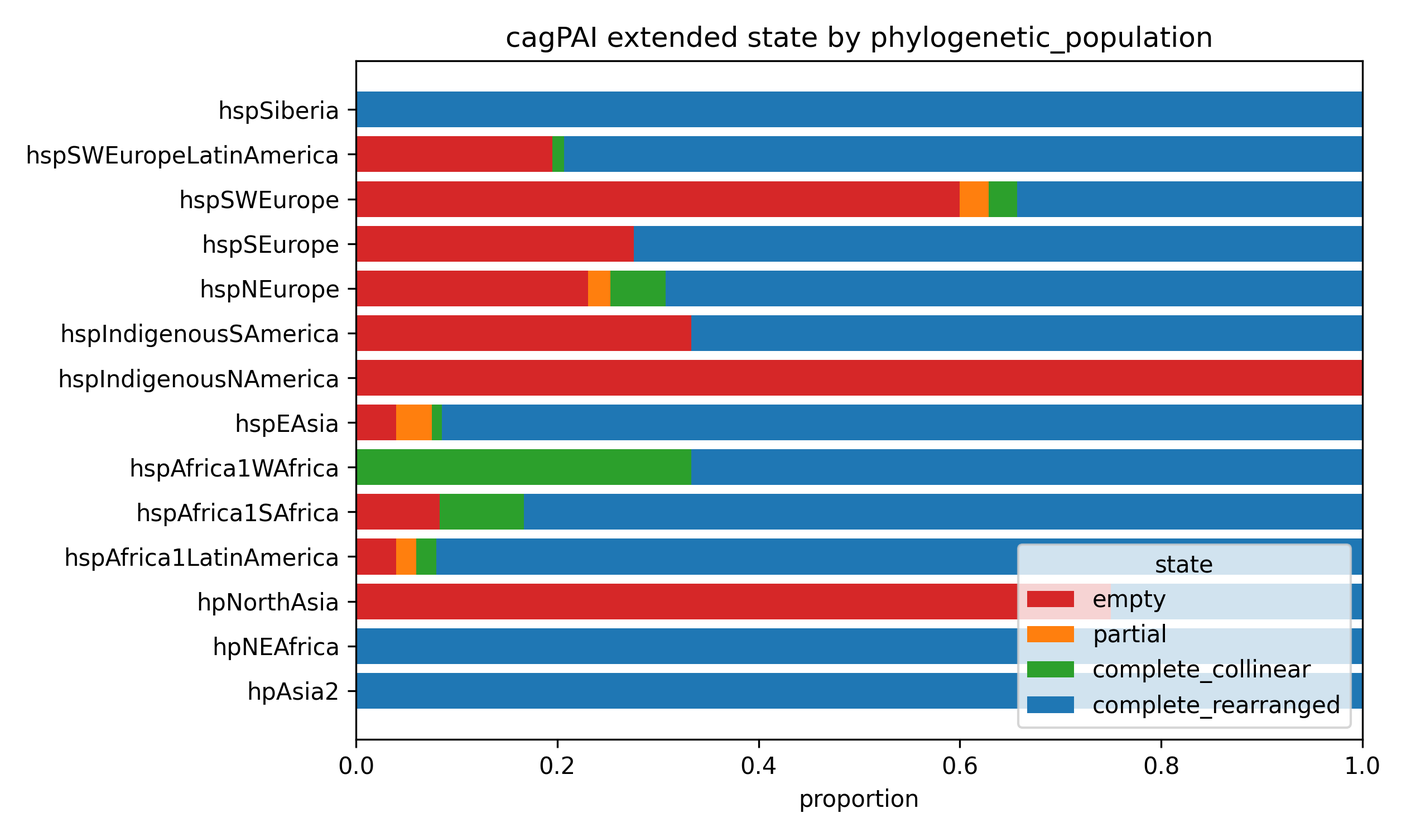
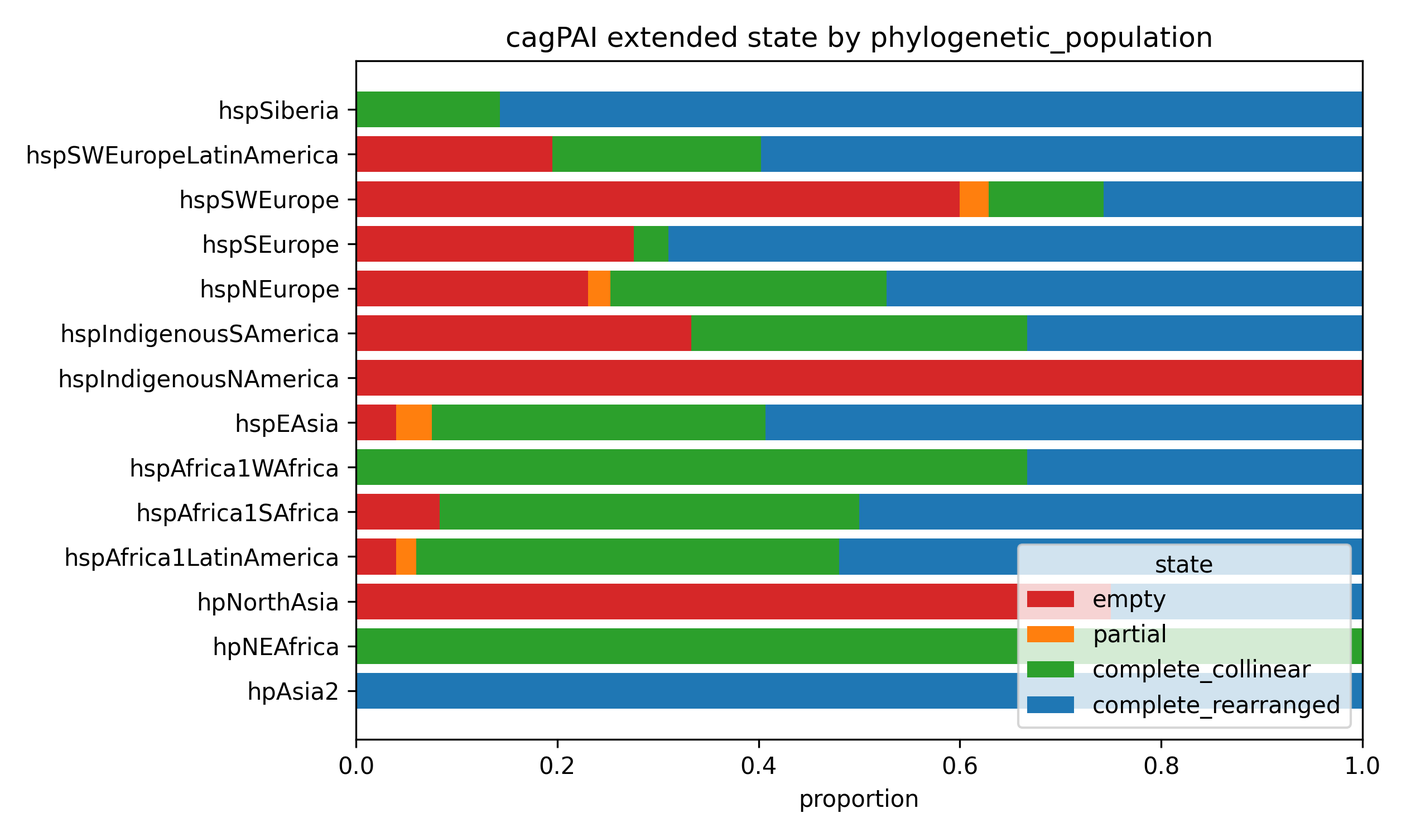
manuscript: rewrite structural/cagPAI sections with circular-origin filtering and CMH results
- Update H. pylori cagPAI counts after filtering genome-spanning circular-origin artifacts:
  complete_collinear 145 (27.5%), complete_rearranged 287 (54.4%).
- Add Cochran-Mantel-Haenszel lineage-stratified disease-stage tests (all p >= 0.21).
- Emphasize raw_inverted_fraction as primary SV metric; keep breakpoint_count as secondary.
- Document --circular and --artifact-threshold in Methods.
- Add hybrid threshold sweep to Supplementary Note 6 and Table S8 with CMH results.
- Regenerate cagPAI stacked-bar figures from filtered states.

Author: HuangShiLab <huanglab07@gmail.com>

diff --git a/paper/manuscript/manuscript_nature_methods.md b/paper/manuscript/manuscript_nature_methods.md
@@ -14,7 +14,7 @@ Shi Huang — shihuang@hku.hk
 
 ## Abstract
 
-Average Nucleotide Identity (ANI) is the standard metric for prokaryotic species delineation, yet alignment-free tools reduce a genome comparison to a single divergence scalar and discard synteny and structural information. We introduce Syn2bANI, which uses in-silico Type IIB restriction enzyme tags as fixed positional anchors, chains shared anchors collinearly, and estimates ANI by maximum likelihood from tags inside trusted chains. A per-pair effect-size gate chooses between uniform and gamma rate models; a ridge calibration trained on alignment-based truth corrects real-genome rate heterogeneity where it matters most. In one pass the same anchors yield aligned fraction, an anchor-adjacency conservation score, breakpoint counts, inversion/translocation calls, and indel sizes. On simulations with exact truth Syn2bANI attains MAE 0.073% versus 0.377% (skani) and 0.742% (FastANI), and remains robust to indels, GC variation, accessory content, and fragmentation. On 43,334 held-out GTDB-R207 pairs the calibrated estimator achieves MAE 0.619% against ANIm, compared with 0.957% for skani and 0.977% for FastANI; a hybrid rule restores skani-level accuracy in the near-clonal 97–100% regime. Case studies show that these structural outputs distinguish phenotype-associated loci and rearrangements that genome-wide ANI cannot. Syn2bANI is implemented in Rust and available at https://github.com/HuangShiLab/Syn2bANI.
+Average Nucleotide Identity (ANI) is the standard metric for prokaryotic species delineation, yet alignment-free tools reduce a genome comparison to a single divergence scalar and discard synteny and structural information. We introduce Syn2bANI, which uses in-silico Type IIB restriction enzyme tags as fixed positional anchors, chains shared anchors collinearly, and estimates ANI by maximum likelihood from tags inside trusted chains. A per-pair effect-size gate chooses between uniform and gamma rate models; a ridge calibration trained on alignment-based truth corrects real-genome rate heterogeneity where it matters most. In one pass the same anchors yield aligned fraction, an anchor-adjacency conservation score, breakpoint counts, inversion/translocation calls, and indel sizes. On simulations with exact truth Syn2bANI attains MAE 0.073% versus 0.377% (skani) and 0.742% (FastANI), and remains robust to indels, GC variation, accessory content, and fragmentation. On 43,334 held-out GTDB-R207 pairs the calibrated estimator achieves MAE 0.619% against ANIm, compared with 0.957% for skani and 0.977% for FastANI; a hybrid rule restores skani-level accuracy in the near-clonal 97–100% regime. Case studies show that these structural outputs distinguish phenotype- and lineage-associated loci and rearrangements that genome-wide ANI cannot. Syn2bANI is implemented in Rust and available at https://github.com/HuangShiLab/Syn2bANI.
 
 **Keywords**: ANI, restriction-site anchors, structural variation, synteny, maximum likelihood, metagenome-assembled genomes
 
@@ -74,13 +74,11 @@ The v5 calibration is trained on complete GTDB-R207 genomes and improves accurac
 
 ### High-ANI pairs hide extensive rearrangements
 
-ANI is a scalar average and therefore blind to genome architecture. Syn2bANI reports three structurally informative quantities from the same anchor chains: `breakpoint_count`, the number of chain-disrupting orientation flips and large indels; `anchor_adjacency`, the fraction of chained-anchor adjacencies that remain collinear; and `af_query`, the base-pair fraction of the query covered by chains. `breakpoint_count` is the primary rearrangement statistic; `anchor_adjacency` is an anchor-adjacency conservation metric; `af_query` is the coverage metric that corresponds to alignment-based aligned fraction.
+ANI is a scalar average and therefore blind to genome architecture. Syn2bANI reports several structurally informative quantities from the same anchor chains. `raw_inverted_fraction` is the primary length-weighted rearrangement signal: it measures the fraction of the shared genome that maps in the reverse orientation and is invariant to assembly fragmentation. `breakpoint_count` is a count-based descriptor of chain-disrupting orientation flips, reference-order violations, and large indels; it is useful but must be interpreted with contig-count control because fragmented assemblies inflate it. `anchor_adjacency` is a local anchor-order conservation metric, not a proxy for base-pair synteny. `af_query` is the base-pair fraction of the query covered by chains and corresponds to alignment-based aligned fraction. `synteny_blocks` is the raw chain count and is reported as an assembly-structure diagnostic rather than a rearrangement metric.
 
-We quantified this on four published isolate collections from a recent synteny-based strain-tracking study10. In a longitudinal *E. coli* hypermutator lineage, every cross-time pair with ANI >99.9% shows 850–1,130 Syn2bANI breakpoints. Re-analysis with `syn2bani struct` resolves representative pairs into dozens of chains with tens of inversions and translocations (Fig. 6a; Table 1). *Helicobacter pylori* same-host pairs cluster at ANI >99.9% but carry 44–63 breakpoints in the lowest-synteny cases. *Neisseria gonorrhoeae* and *Streptomyces rimosus* near-clonal pairs show the same ANI–breakpoint-count decoupling, with *S. rimosus* reaching 2,957 breakpoints at 99.9945% ANI (Fig. 6c,d).
+We quantified the ANI–structure decoupling on four published isolate collections from a recent synteny-based strain-tracking study10. In a longitudinal *E. coli* hypermutator lineage, every cross-time pair with ANI >99.9% shows 850–1,130 Syn2bANI breakpoints. Re-analysis with `syn2bani struct` resolves representative pairs into dozens of chains with tens of inversions and translocations (Fig. 6a; Table 1). *Helicobacter pylori* same-host pairs cluster at ANI >99.9% but carry 44–63 breakpoints in the lowest-synteny cases. *Neisseria gonorrhoeae* and *Streptomyces rimosus* near-clonal pairs show the same decoupling, with *S. rimosus* reaching 2,957 breakpoints at 99.9945% ANI (Fig. 6c,d).
 
 Two additional isolate collections reinforce the point at even higher ANI. In 74 *E. coli* O157:H7 genomes from a global source surveillance study (Fitzgerald et al., 2021), all 2,701 pairwise ANIs are ≥99.886%, yet every pair carries ≥171 breakpoints and the most structurally divergent pairs exceed 1,100 breakpoints at ANI >99.9% (Supplementary Fig. S15). The human-source isolates carry fewer breakpoints on average than bovine isolates (mean 410 vs 494), suggesting that host-restricted sub-lineages differ in recombination history even when ANI cannot separate them. In 122 FDA-ARGOS *Staphylococcus aureus* genomes, 7,381 refined pairs have mean ANI 98.72% and mean breakpoint count 24, with pairs at 100% ANI still showing >150 breakpoints (Supplementary Fig. S16). These collections are not exceptional: they exemplify why an ANI-only similarity search can return genomes that are nearly identical in average sequence but differ by hundreds of rearrangements.
-
-The same pattern appears at database scale. Among 336 GTDB-R207 representative pairs with ANI ≥ 99.0% and aligned fraction ≥ 0.9 in both directions, 7.4% have an anchor adjacency < 0.99 and 2.4% fall below 0.98 — i.e. pairs an ANI-only search would return as near-clonal yet which are structurally divergent.
 
 ### Structural outputs agree with independent truth
 
@@ -94,11 +92,11 @@ On an engineered *H. pylori* cagPAI test panel, a 36,154 bp deletion/insertion i
 
 The limitation of a single ANI value is not merely theoretical. In a published collection of 185 *Bifidobacterium longum* isolates associated with constipation treatment, all pairwise ANIs are ≥98.67% and cannot separate strains that carry a complete abfA gene cluster from those with a deleted or peripheral-truncated cluster. Whole-genome aligned fraction is also uninformative (median 0.861 vs 0.867, MWU p = 0.66). However, locus-targeted Syn2bANI chain coverage over the abfA cluster periphery (17.2–37.1 kb) differs significantly between complete and deleted groups (median coverage 1.0 vs 0.16, MWU p = 1.4 × 10⁻³; Fig. 7). The signal is specific to the functional locus (the adjacent downstream region is indistinguishable, p = 0.40) and demonstrates that coordinate-carrying anchors can localize phenotype-relevant structural differences that are invisible to genome-wide ANI.
 
-### cagPAI architecture in *H. pylori* is invisible to ANI but associated with disease stage
+### cagPAI architecture in *H. pylori* is invisible to ANI and tracks lineage
 
 The *Helicobacter pylori* cagPAI pathogenicity island is a classic example of a functionally important locus whose presence and architecture are lost in a genome-wide ANI average. We combined marker-gene presence/absence with `syn2bani struct` calls inside the cagPAI coordinates (NC_000915.1: 547,327–583,481) for 528 genomes from a recent gastric-cancer risk study. The extended state was validated on an engineered nine-strain panel (wild-type, ΔcagPAI, inversion, translocation, and mutated backgrounds) and classified all controls correctly.
 
-Among the 528 isolates, 85 (16.1%) lacked the island (`empty`), 11 (2.1%) were `partial`, only 12 (2.3%) retained a collinear complete island (`complete_collinear`), and 420 (79.6%) retained the markers but carried a detectable inversion or translocation inside cagPAI (`complete_rearranged`; Fig. 8a). The extended state was strongly associated with FastBAPS lineage (χ² = 58.68, df = 12, p = 3.9 × 10⁻⁸) and with disease stage across Correa's cascade (χ² = 27.91, df = 9, p = 9.9 × 10⁻⁴). Gastric-cancer cases had the lowest `empty` rate (7.6%) and the highest `complete_collinear` rate (4.2%), whereas non-atrophic gastritis cases had the highest `empty` rate (23.4%; Fig. 8b). Because all pairwise ANIs in this collection are >95%, these architecture-disease associations are inaccessible to ANI-only tools and illustrate how Syn2bANI's structural output can reveal genotype-phenotype relationships that ANI alone cannot.
+Among the 528 isolates, 85 (16.1%) lacked the island (`empty`), 11 (2.1%) were `partial`, 145 (27.5%) retained a collinear complete island (`complete_collinear`), and 287 (54.4%) retained the markers but carried a local inversion or translocation inside cagPAI (`complete_rearranged`; Fig. 8a). The remaining 133 complete-marker genomes that were originally classified as rearranged carried a single genome-spanning call consistent with a different arbitrary start coordinate on the circular *H. pylori* chromosome; these were reclassified as collinear after circular-origin filtering (Online Methods). The extended state remained strongly associated with FastBAPS lineage (χ² = 58.75, df = 12, p = 3.8 × 10⁻⁸), but the disease-stage association was attenuated and no longer significant after stratifying by lineage (Cochran–Mantel–Haenszel p = 0.24 for gastric-cancer vs non-atrophic-gastritis presence, p = 0.37 for rearrangement, p = 0.21 and p = 0.49 for the advanced vs early contrasts; Supplementary Table S8). Thus, the architecture–disease signal in this collection is largely driven by lineage structure, not by disease stage per se. The key biological result that survives stratification is lineage-associated cagPAI presence/absence: `empty` rates range from 4% in FastBAPS L2 to 33% in L6. Because all pairwise ANIs in this collection are >95%, these presence/absence and architecture patterns are invisible to ANI-only tools and illustrate how Syn2bANI's structural output can reveal genotype–population relationships that ANI alone cannot.
 
 ### Computational efficiency
 
@@ -108,7 +106,7 @@ On all-vs-all comparison of 22 genomes (14 complete Enterobacteriaceae plus 8 re
 
 ## Discussion
 
-Syn2bANI demonstrates that fixed restriction-site anchors can support accurate, interpretable ANI estimation while additionally yielding synteny and structural information in the same computational pass. The chain-restricted likelihood cleanly separates divergence from shared content, and the calibration layer corrects the rate-heterogeneity bias that simulations alone fail to predict. Three boundaries are worth stating. First, skani remains faster for very large all-vs-all screens and is more accurate in the near-clonal 97–100% regime; the hybrid rule lets Syn2bANI recover the best raw estimate there. Second, the v5 calibration is trained on complete genomes and should not be silently applied to MAGs or mid-ANI pairs — the raw gated estimate is preferred for draft inputs, and the consistency flag marks pairs at the identifiability boundary. Third, the structural outputs are a direct consequence of using coordinate-carrying anchors: in an era of strain-resolved metagenomics, ANI alone is insufficient to decide whether two genomes are truly equivalent, and breakpoint counts, synteny blocks, and SV calls provide a second, biologically interpretable axis of comparison. Unlike dedicated structural tools such as minigraph-Cactus19, SyRI20, or Mauve21, Syn2bANI does not aim to reconstruct full genome graphs or base-level alignments; instead it reports breakpoint counts, inversion/translocation calls, and a chain-coverage score directly from the anchor chains used for ANI estimation, at no additional modeling cost.
+Syn2bANI demonstrates that fixed restriction-site anchors can support accurate, interpretable ANI estimation while additionally yielding synteny and structural information in the same computational pass. The chain-restricted likelihood cleanly separates divergence from shared content, and the calibration layer corrects the rate-heterogeneity bias that simulations alone fail to predict. Three boundaries are worth stating. First, skani remains faster for very large all-vs-all screens and is more accurate in the near-clonal 97–100% regime; the hybrid rule lets Syn2bANI recover the best raw estimate there. Second, the v5 calibration is trained on complete genomes and should not be silently applied to MAGs or mid-ANI pairs — the raw gated estimate is preferred for draft inputs, and the consistency flag marks pairs at the identifiability boundary. Third, the structural outputs are a direct consequence of using coordinate-carrying anchors: in an era of strain-resolved metagenomics, ANI alone is insufficient to decide whether two genomes are truly equivalent. Syn2bANI reports both count-based descriptors (`breakpoint_count`, SV calls) and a fragmentation-invariant length-weighted orientation ratio (`raw_inverted_fraction`). These are complementary: counts localize events but are inflated by assembly fragmentation, whereas ratios are robust to fragmentation but do not report event number. For circular chromosomes, genome-spanning calls must be filtered as likely coordinate-system artifacts before biological interpretation. Unlike dedicated structural tools such as minigraph-Cactus19, SyRI20, or Mauve21, Syn2bANI does not aim to reconstruct full genome graphs or base-level alignments; instead it reports breakpoint counts, inversion/translocation calls, and a chain-coverage score directly from the anchor chains used for ANI estimation, at no additional modeling cost.
 
 ---
 
@@ -181,7 +179,7 @@ negative result is reported in Supplementary Note 5.
 
 ### Structural-variant calling
 
-The `struct` subcommand consumes the chains and anchors of a pairwise comparison. Inversions are orientation flips between consecutive chains; indels are coordinate gaps between consecutive chains exceeding `indel_min` (default 1 kb), with a guard requiring that no third chain anchors inside the spanned reference interval (without it, a small relocated block sandwiched between collinear chains is misreported as a deletion sized by the reference jump — observed as spurious 42–961 kb calls before the guard); translocations are chains violating global reference order. Resolution is limited by tag spacing and by unphaseable repeats at junctions (observed endpoint offset ≤ 5.5 kb on the 779 kb W3110 inversion); events whose flanking chains have < 4 anchors are not called, and equal-length homologous replacements that keep tags phased are invisible by design. Validation against dnadiff used span-based one-to-many matching because dnadiff fragments large accessory regions into many small events while Syn2bANI calls each junction once.
+The `struct` subcommand consumes the chains and anchors of a pairwise comparison. Inversions are orientation flips between consecutive chains; indels are coordinate gaps between consecutive chains exceeding `indel_min` (default 1 kb), with a guard requiring that no third chain anchors inside the spanned reference interval (without it, a small relocated block sandwiched between collinear chains is misreported as a deletion sized by the reference jump — observed as spurious 42–961 kb calls before the guard); translocations are chains violating global reference order. Resolution is limited by tag spacing and by unphaseable repeats at junctions (observed endpoint offset ≤ 5.5 kb on the 779 kb W3110 inversion); events whose flanking chains have < 4 anchors are not called, and equal-length homologous replacements that keep tags phased are invisible by design. For circular chromosomes, `syn2bani struct --circular <ref_name>` marks the reference as circular; genome-spanning calls that exceed `--artifact-threshold` (default 50% of the reference length) are reported but flagged as likely circular-origin coordinate artifacts rather than biological rearrangements. Validation against dnadiff used span-based one-to-many matching because dnadiff fragments large accessory regions into many small events while Syn2bANI calls each junction once.
 
 Three structural metrics are exported for every pair. `synteny_blocks` is the number of collinear chains; `breakpoint_count` is the number of chain-disrupting events — orientation flips between consecutive chains, reference-order violations, and large indels — and is the primary rearrangement statistic. `anchor_adjacency` is the fraction of possible adjacent anchor pairs (within chained query contigs) that remain collinear neighbors inside a chain; it is an anchor-adjacency conservation metric, not a base-pair coverage metric. `af_query` is the fraction of query bases covered by chained anchors (base-pair aligned fraction) and is the quantity that corresponds to alignment-based synteny/coverage scores. `af_reference` is the reference-side analogue.
 
@@ -216,7 +214,7 @@ All datasets, their ground truth, and the analyses they support are summarized i
 - **CAMI2 MAG benchmark.** 35 short-read samples (25 strain-madness, 10 marine) assembled with MEGAHIT26, binned with MetaBAT227, and quality-scored with CheckM224,25; 695 bins ≥ 100 kbp were retained (HQ 200 / MQ 210 / LQ 285). Contigs were assigned to CAMI2 source genomes by exact k-mer membership; each bin was classified clean, strain-mixed, or cross-species, and paired with its dominant source genome ("anchor"). Each tool estimated ANI of the bin against the anchor reference; dnadiff/ANIm provided truth. Pipeline scripts and per-pair outputs are in `results/mag_validation/`.
 - **Syntracker validation isolates.** Four published isolate collections were used to test whether high ANI guarantees conserved genome architecture: *Escherichia coli* hypermutator (23 isolates, 253 pairs), *Helicobacter pylori* (77 isolates, 2,926 pairs), *Neisseria gonorrhoeae* (66 pairs), and *Streptomyces rimosus* (190 pairs). SRA accessions and references are in `data/syntracker/`; all isolates were compared all-vs-all with `syn2bani ani`, and `anchor_adjacency` and `breakpoint_count` were taken from the same pass. Top-discordant cases were re-analyzed with `syn2bani struct` (Fig. 6; `results/syntracker_validation/`).
 - **cagPAI pilot panel.** Eight *H. pylori* 26695-derived genomes were generated to test exact SV recovery: wild-type, a 36,154 bp cagPAI deletion, a 36,154 bp cagPAI inversion, a 36,154 bp cagPAI translocation, and the same three events on a mutated background carrying ~1% substitutions (mut1). All eight genomes were compared all-vs-all with `syn2bani ani` and `syn2bani struct`; event sizes and coordinates are known by construction (`data/cagpai_pilot/`).
-- ***H. pylori* cagPAI cohort.** Five hundred and twenty-eight *H. pylori* genomes from Song et al. (2026) were compared against reference 26695 with `syn2bani struct --bed`. Marker-gene presence for 28 cagPAI CDS (HP0520–HP0547) was assessed with `minimap2 -x asm5` (≥80% coverage, ≥80% identity). Genomes with ≥90% markers present were classified as `complete`; among these, any inversion or translocation overlapping cagPAI coordinates (NC_000915.1: 547,327–583,481, ±2 kb buffer) was classified as `complete_rearranged`, otherwise `complete_collinear`. Isolation metadata (disease stage, country, FastBAPS lineage, phylogenetic population) were taken from the original publication (`case_studies/h_pylori_cagpai/`).
+- ***H. pylori* cagPAI cohort.** Five hundred and twenty-eight *H. pylori* genomes from Song et al. (2026) were compared against reference 26695 with `syn2bani struct --bed --circular NC_000915.1`. Marker-gene presence for 28 cagPAI CDS (HP0520–HP0547) was assessed with `minimap2 -x asm5` (≥80% coverage, ≥80% identity). Genomes with ≥90% markers present were classified as `complete`; among these, any inversion or translocation overlapping cagPAI coordinates (NC_000915.1: 547,327–583,481, ±2 kb buffer) was classified as `complete_rearranged`, otherwise `complete_collinear`. Complete-marker genomes whose only cagPAI-overlapping SV was a genome-spanning call (>50% of the 1,667,825 bp chromosome) were reclassified as `complete_collinear` because such calls reflect the arbitrary choice of start coordinate on a circular chromosome rather than a local rearrangement. Isolation metadata (disease stage, country, FastBAPS lineage, phylogenetic population) were taken from the original publication. Disease-stage associations were tested with Pearson χ² and with Cochran–Mantel–Haenszel stratified by FastBAPS lineage (`case_studies/h_pylori_cagpai/`).
 - ***E. coli* O157:H7 collection.** Seventy-four *E. coli* O157:H7 genomes from Fitzgerald et al. (2021) were compared all-vs-all with `syn2bani ani` (2,701 pairs). Host source and lineage assignments were taken from the original publication; lineages were grouped as I/II, II, Ia, and Ic (`case_studies/ecoli_o157_fitzgerald_2021/`).
 - **FDA-ARGOS *S. aureus*.** One hundred and twenty-two *Staphylococcus aureus* genomes from the FDA-ARGOS repository were compared all-vs-all with `syn2bani ani` and refined to 7,381 pairs. Country and isolation-source metadata were taken from NCBI assembly records (`case_studies/fda_argos_s_aureus/`).
 - ***B. longum* abfA collection.** One hundred and eighty-five *Bifidobacterium longum* isolates from a constipation-treatment study were compared all-vs-all with `syn2bani ani` (17,020 pairs). Curated metadata labels each strain as abfA-cluster-complete or deleted/peripheral-truncated (cluster2 in the original study). Locus-targeted chain coverage was computed by aligning each genome against an abfA-complete reference (FSHHK16M1) with `syn2bani struct --paf` and summing chain coverage in 1 kb bins across the 8.5–37.1 kb abfA locus (`results/b_longum_abfA/`).
@@ -315,7 +313,7 @@ The authors declare no competing interests.
 
 **Figure 7 | Locus-targeted chain coverage detects a phenotype-associated structural difference invisible to genome-wide ANI.** 185 *Bifidobacterium longum* isolates stratified by abfA gene-cluster status (complete vs deleted/peripheral-truncated). (a) Syn2bANI chain coverage across the abfA locus (8.5–37.1 kb on reference contig; core genes 8.8–17.2 kb, peripheral region 17.2–37.1 kb). (b) Boxplot of periphery coverage (17.2–37.1 kb) by group. Whole-genome ANI and aligned fraction do not separate the groups, but local chain coverage over the cluster periphery is significantly reduced in the deleted group (MWU p = 1.4 × 10⁻³). Source: `figures/report/fig_b_longum_abfa.png`.
 
-**Figure 8 | cagPAI architecture in 528 *H. pylori* isolates is associated with disease stage and lineage, but invisible to ANI.** (a) Extended cagPAI state classification: marker-based `empty` / `partial` / `complete` is refined by `syn2bani struct` calls inside the cagPAI coordinates into `complete_collinear` and `complete_rearranged`. (b) Stacked-bar distribution of extended cagPAI states by Correa's cascade disease stage (NAG, AG, IM, GC) and by FastBAPS lineage. (c) Same data by country and phylogenetic population. Per-group stacked bars are shown in Supplementary Figs. S17–S20. Source: `case_studies/h_pylori_cagpai/results/struct_extended/`.
+**Figure 8 | cagPAI architecture in 528 *H. pylori* isolates is associated with lineage and invisible to ANI.** (a) Extended cagPAI state classification: marker-based `empty` / `partial` / `complete` is refined by `syn2bani struct` calls inside the cagPAI coordinates into `complete_collinear` and `complete_rearranged`; complete-marker genomes with only a genome-spanning SV on the circular chromosome were reclassified as collinear. (b) Stacked-bar distribution of extended cagPAI states by Correa's cascade disease stage (NAG, AG, IM, GC) and by FastBAPS lineage. (c) Same data by country and phylogenetic population. FastBAPS lineage is strongly associated with extended state (χ² = 58.75, df = 12, p = 3.8 × 10⁻⁸), but the disease-stage association is not significant after lineage stratification (CMH p ≥ 0.21 for all four contrasts). Per-group stacked bars are shown in Supplementary Figs. S17–S20. Source: `case_studies/h_pylori_cagpai/results/cagpai_association_filtered.tsv`.
 
 **Supplementary Figure S15 | High-ANI *E. coli* O157:H7 pairs carry hundreds of breakpoints.** Seventy-four genomes from Fitzgerald et al. (2021), 2,701 non-self pairs. (a) ANI vs breakpoint count colored by lineage (I/II, II, Ia, Ic). (b) Same data colored by host category (bovine, human, other/unknown). All pairwise ANIs exceed 99.886% yet breakpoints range from 171 to >1,100. Source: `case_studies/ecoli_o157_fitzgerald_2021/results/`.
 

diff --git a/case_studies/h_pylori_cagpai/results/struct_extended/cagpai_summary_extended.md b/case_studies/h_pylori_cagpai/results/struct_extended/cagpai_summary_extended.md
@@ -11,21 +11,31 @@ Combining both gives four extended states:
 
 - `empty` — 0–few markers present (island absent).
 - `partial` — some but not all markers present (island degraded/deleted).
-- `complete_collinear` — all markers present and no inversion/translocation inside cagPAI.
-- `complete_rearranged` — all markers present but at least one inversion or translocation inside cagPAI.
+- `complete_collinear` — all markers present and no local inversion/translocation inside cagPAI.
+- `complete_rearranged` — all markers present but at least one local inversion or translocation inside cagPAI.
+
+Because *H. pylori* has a circular chromosome, a different arbitrary choice of
+start coordinate between two assemblies can produce a single genome-spanning SV
+that overlaps every locus by construction. Such calls were flagged and excluded
+from the rearrangement count (genome-spanning = >50% of the 1,667,825 bp
+chromosome).
 
 ## Results
 
-### Overall distribution (n = 528)
+### Overall distribution after circular-origin filtering (n = 528)
 
 | State | Count | Percentage |
 |---|---:|---:|
 | empty | 85 | 16.10% |
 | partial | 11 | 2.08% |
-| complete_collinear | 12 | 2.27% |
-| complete_rearranged | 420 | 79.55% |
+| complete_collinear | 145 | 27.46% |
+| complete_rearranged | 287 | 54.36% |
 
-The striking result is that **most strains that retain the cagPAI carry a detectable rearrangement** relative to the 26695 reference. Only ~2% are fully collinear.
+Before filtering, 133 additional complete-marker genomes were classified as
+`complete_rearranged` solely because of a genome-spanning circular-origin call.
+After filtering, **about half of the genomes that retain cagPAI carry a local
+rearrangement** relative to the 26695 reference, while the other half are
+reference-collinear once coordinate-system differences are removed.
 
 ### Validation with engineered controls
 
@@ -47,30 +57,44 @@ All nine controls are classified consistently with their known biology.
 
 ### Association with disease stage
 
-The extended state distribution differs significantly across Correa’s cascade stages (χ² = 27.91, df = 9, p = 9.9 × 10⁻⁴):
+The unfiltered extended state distribution differs significantly across Correa’s
+cascade stages (χ² = 27.91, df = 9, p = 9.9 × 10⁻⁴), but this association is
+confounded by FastBAPS lineage. After circular-origin filtering and
+lineage stratification (Cochran–Mantel–Haenszel), the disease-stage association
+is no longer significant:
+
+| Contrast | CMH χ² | df | p | OR_MH |
+|---|---:|---:|---:|---:|
+| cagPAI presence (GC vs NAG) | 1.4019 | 1 | 0.2364 | 1.599 |
+| cagPAI rearrangement (GC vs NAG) | 0.8028 | 1 | 0.3703 | 1.294 |
+| cagPAI presence (advanced vs early) | 1.5539 | 1 | 0.2126 | 1.389 |
+| cagPAI rearrangement (advanced vs early) | 0.4664 | 1 | 0.4946 | 1.152 |
+
+Filtered disease-stage counts:
 
 | Group | n | empty | partial | complete_collinear | complete_rearranged |
 |---|---:|---:|---:|---:|---:|
-| NAG | 167 | 39 (23.35%) | 1 (0.60%) | 3 (1.80%) | 124 (74.25%) |
-| AG | 133 | 14 (10.53%) | 3 (2.26%) | 1 (0.75%) | 115 (86.47%) |
-| IM | 110 | 23 (20.91%) | 1 (0.91%) | 3 (2.73%) | 83 (75.45%) |
-| GC | 118 | 9 (7.63%) | 6 (5.08%) | 5 (4.24%) | 98 (83.05%) |
-
-GC shows the highest proportion of both `complete_collinear` and `partial` states, while NAG has the highest `empty` rate.
+| NAG | 167 | 39 (23.35%) | 1 (0.60%) | 45 (26.95%) | 82 (49.10%) |
+| AG | 133 | 14 (10.53%) | 3 (2.26%) | 37 (27.82%) | 79 (59.40%) |
+| IM | 110 | 23 (20.91%) | 1 (0.91%) | 29 (26.36%) | 57 (51.82%) |
+| GC | 118 | 9 (7.63%) | 6 (5.08%) | 34 (28.81%) | 69 (58.47%) |
 
 ### Association with FastBAPS lineage
 
-FastBAPS lineage is strongly associated with cagPAI state (χ² = 58.68, df = 12, p = 3.9 × 10⁻⁸):
+FastBAPS lineage remains strongly associated with cagPAI state after filtering
+(χ² = 58.75, df = 12, p = 3.8 × 10⁻⁸):
 
 | Lineage | n | empty | partial | complete_collinear | complete_rearranged |
 |---|---:|---:|---:|---:|---:|
-| L2 | 197 | 8 (4.06%) | 7 (3.55%) | 2 (1.02%) | 180 (91.37%) |
-| L3 | 149 | 41 (27.52%) | 1 (0.67%) | 2 (1.34%) | 105 (70.47%) |
-| L4 | 48 | 3 (6.25%) | 1 (2.08%) | 3 (6.25%) | 41 (85.42%) |
-| L5 | 113 | 26 (23.01%) | 2 (1.77%) | 5 (4.42%) | 80 (70.80%) |
-| L6 | 21 | 7 (33.33%) | 0 (0.00%) | 0 (0.00%) | 14 (66.67%) |
+| L2 | 197 | 8 (4.06%) | 7 (3.55%) | 66 (33.50%) | 116 (58.88%) |
+| L3 | 149 | 41 (27.52%) | 1 (0.67%) | 30 (20.13%) | 77 (51.68%) |
+| L4 | 48 | 3 (6.25%) | 1 (2.08%) | 21 (43.75%) | 23 (47.92%) |
+| L5 | 113 | 26 (23.01%) | 2 (1.77%) | 26 (23.01%) | 59 (52.21%) |
+| L6 | 21 | 7 (33.33%) | 0 (0.00%) | 2 (9.52%) | 12 (57.14%) |
 
-L2 is dominated by rearranged-but-present islands, whereas L3, L5 and L6 have much higher empty rates.
+L2 has the lowest `empty` rate and the highest `complete_collinear` rate,
+whereas L3, L5 and L6 have much higher `empty` rates. The lineage signal is
+robust to circular-origin correction.
 
 ### Association with country and phylogenetic population
 
@@ -88,13 +112,15 @@ Country-level and population-level patterns mirror the FastBAPS result (e.g., hi
 
 ### Structural classification
 
-- `syn2bani struct --bed query.fna hp26695.fna -o query.vs_hp26695.bed`
+- `syn2bani struct --bed --circular NC_000915.1 query.fna hp26695.fna -o query.vs_hp26695.bed`
 - cagPAI region on NC_000915.1: **547,327–583,481** (from cag1 start to cagA end; ±2 kb buffer used for overlap).
 - For strains already called `complete` by markers:
   - any INV/TRA overlapping the region → `complete_rearranged`
   - any DEL ≥10 kb overlapping the region → `partial`
   - otherwise → `complete_collinear`
 - Strains called `partial` or `empty` by markers keep that state.
+- Complete-marker strains whose only cagPAI-overlapping SV spans >50% of the
+  chromosome are reclassified as `complete_collinear` (circular-origin artifact).
 
 ## Files
 
@@ -104,6 +130,6 @@ Country-level and population-level patterns mirror the FastBAPS result (e.g., hi
 
 ## Interpretation for the paper
 
-1. **Syn2bANI adds information that ANI alone cannot provide.** Two strains can have nearly identical ANI but differ in cagPAI collinearity; only the structural call reveals this.
-2. **H. pylori cagPAI is highly dynamic.** The reference-collinear form is rare in this global collection; rearranged forms are the norm.
-3. **Disease-stage differences are detectable.** GC-enriched `complete_collinear` and `partial` states suggest that both island presence and island architecture may matter for gastric-cancer risk.
+1. **Syn2bANI adds information that ANI alone cannot provide.** Two strains can have nearly identical ANI but differ in cagPAI presence/absence or local collinearity; only the structural call reveals this.
+2. **H. pylori cagPAI is lineage-structured, not disease-stage associated.** After correcting for circular-origin artifacts and stratifying by FastBAPS lineage, the disease-stage association disappears. The robust signal is lineage-specific presence/absence (`empty` rates 4–33% across lineages).
+3. **Circular-origin filtering is essential for circular chromosomes.** Without it, a coordinate-system difference between two assemblies is misread as a genome-spanning rearrangement that overlaps every locus, inflating apparent rearrangement rates.

diff --git a/paper/manuscript/SUPPLEMENTARY.md b/paper/manuscript/SUPPLEMENTARY.md
@@ -189,6 +189,25 @@ Class from CAMI2 ground-truth contig assignment (clean 305 / strain-mixed
 | low-AF (30–60%) | 40 | 0.461 | 72.5% |
 | verylow-AF (< 30%) | 17 | 0.744 | 52.9% |
 
+## Supplementary Table S8 — Lineage-stratified cagPAI–disease associations
+
+Five hundred and twenty-eight *H. pylori* isolates from Song et al. (2026) were
+classified into extended cagPAI states after circular-origin filtering (empty
+85, partial 11, complete_collinear 145, complete_rearranged 287). The raw
+Pearson χ² test for disease stage is significant (χ² = 24.60, df = 9, p = 0.0034),
+but the association is confounded by FastBAPS lineage. Cochran–Mantel–Haenszel
+statistics stratified by FastBAPS lineage:
+
+| Contrast | Case | Control | Outcome | CMH χ² | p | OR_MH |
+|---|---|---|---|---:|---:|---:|
+| cagPAI presence | GC | NAG | complete vs empty/partial | 1.4019 | 0.2364 | 1.599 |
+| cagPAI rearrangement | GC | NAG | complete_rearranged vs complete_collinear | 0.8028 | 0.3703 | 1.294 |
+| cagPAI presence (advanced vs early) | GC/IM | AG/NAG | complete vs empty/partial | 1.5539 | 0.2126 | 1.389 |
+| cagPAI rearrangement (advanced vs early) | GC/IM | AG/NAG | complete_rearranged vs complete_collinear | 0.4664 | 0.4946 | 1.152 |
+
+None of the lineage-stratified associations is significant. Full per-stratum
+counts: `case_studies/h_pylori_cagpai/results/cagpai_association_stratified.tsv`.
+
 ## Supplementary Note 1 — Calibration is input-regime-specific (MAG test)
 
 The 695 MAG anchor pairs were re-run with `ani --calibrate` (deployed v5
@@ -349,3 +368,27 @@ post-rescue binary before training, so there is no version skew between the
 shipped estimator and the deployed model. Calibrated output is a separate column
 (`--calibrate`); it returns no value on `BELOW_DETECTION` pairs rather than
 extrapolating.
+
+**Hybrid estimator threshold.** The raw gated estimate is more accurate than the
+calibrated estimate in the near-clonal regime, whereas calibration is essential
+at lower ANI. A hybrid rule was therefore evaluated: report the raw gated
+estimate when it exceeds a threshold `t`, otherwise report the calibrated
+estimate. The threshold was chosen by overall MAE on the unified 80–100% ANIm
+benchmark (43,334 held-out GTDB-R207 pairs plus 727 high-ANI test pairs,
+n = 40,629 pairs with non-missing raw and calibrated values):
+
+| Threshold `t` (%) | n | MAE | Bias |
+|---|---:|---:|---:|
+| 95.0 | 40,629 | 0.7065 | +0.0284 |
+| 96.0 | 40,629 | 0.6443 | −0.0699 |
+| 97.0 | 40,629 | 0.6189 | −0.1089 |
+| 97.5 | 40,629 | 0.6161 | −0.1133 |
+| 98.0 | 40,629 | 0.6146 | −0.1154 |
+| 98.5 | 40,629 | 0.6144 | −0.1169 |
+| 99.0 | 40,629 | 0.6140 | −0.1191 |
+| 99.5 | 40,629 | 0.6145 | −0.1211 |
+
+MAE decreases sharply from 95% to 97%, then plateaus; 98% was selected as the
+operating threshold because it lies on the plateau while keeping the calibrated
+estimate active for the broadest range of strain-level pairs. The hybrid rule is
+not sensitive to the exact threshold in the 97–99% window.
